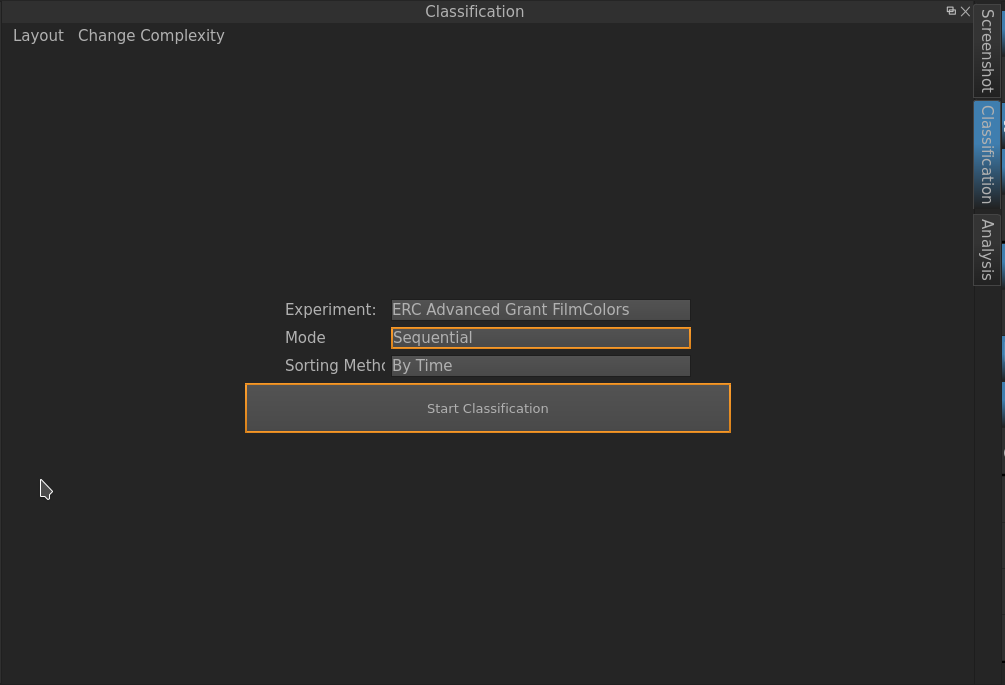
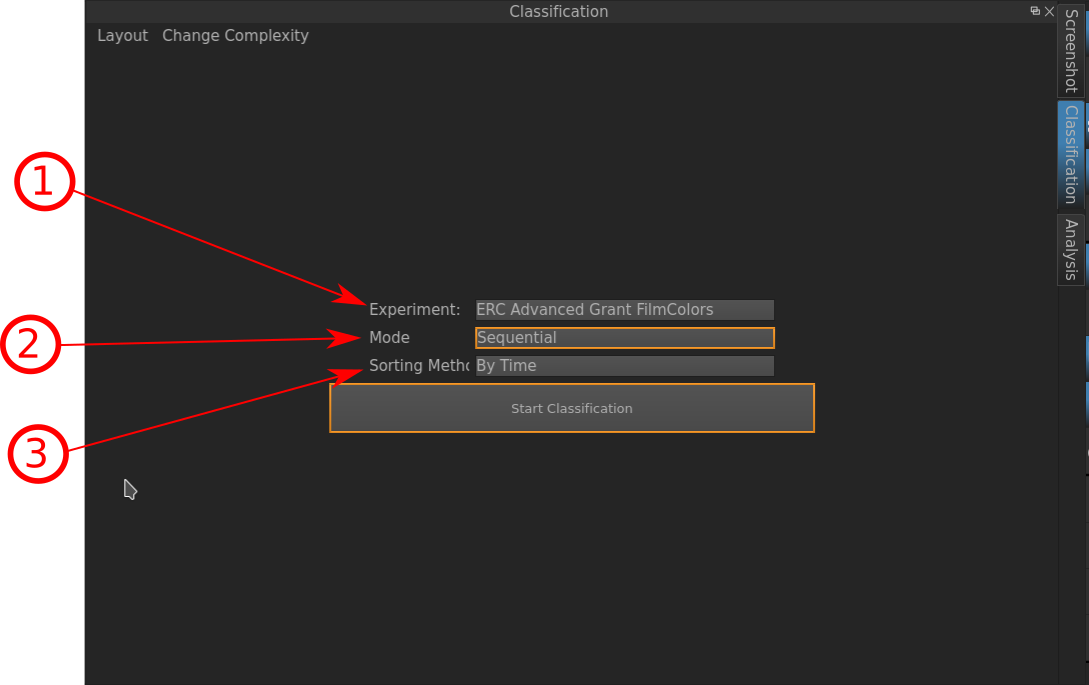
Wiki: continued classification, colorimetry

diff --git a/_docs/source/user_interface/interface_detail/classification/classification.rst b/_docs/source/user_interface/interface_detail/classification/classification.rst
@@ -1,7 +1,12 @@
-.. _classifiaction::
+.. _classification::
 
 Classification
 ==============
+
+The Classification Window is the tool for annotating the Objects with the corresponfing Vocabulary you intend to. In order to be able to perform this task, you need to have two steps already have done:
+
+- The segmentation_ of your movie and
+- The Setting up of an experiment_
 
 .. figure:: classification_start.png
    :scale: 80 %
@@ -10,6 +15,11 @@ Classification
 
    The Mask before starting a Classification.
 
+Indicated Information:
+
+- **1**: **Experiment**: Choose the experiment (i.e. the Vocabulary and Objects) you want to use to classify your movie. If you have not set up an Experiment yet you can define one HERE, or you can select the *ERC Advanced Grant FilmColors* which already has Objects and a corresponding Experiment pre-defined.
+- **2**: **Mode**: Select the Mode in which you want to carry out your Classification; which means, either you select the Segments manually (you click on them in the **Timeline**), or you classify them sequentally (as seen in the image below).
+- **3**: **Sorting Method**: TO DO
 
 .. figure:: classification_in_prog.png
    :scale: 50 %

diff --git a/_docs/source/user_interface/interface_detail/colorimetry/colorimetry.rst b/_docs/source/user_interface/interface_detail/colorimetry/colorimetry.rst
@@ -1,8 +1,9 @@
-.. _colrimetry:
+.. _colorimetry:
 
 Colorimetry
 ===========
 
+If you ran the **Colorimetry** (which means that the color features for each frame are being computed), you can inspect the color features of the current frame you are at in the **timeline**.
 
 .. figure:: colorimetry.png
    :scale: 60%
@@ -10,6 +11,29 @@ Colorimetry
    :alt: map to buried treasure
    
    The two visualizations of the Colorimetry along the corresponding frame.
+
+
+.. image:: colorimetry_palette_1.png
+   :scale: 50%
+   :align: left
+   :alt: map to buried treasure
+   
+
+.. image:: colorimetry_palette.png
+   :scale: 50%
+   :align: right
+   :alt: map to buried treasure
+   
+Indicated Information:
+
+- **1**: **Mode**:
+ - *Full Tree*:
+ - *Layer*:
+- **2**: **Sorting**:
+ - *Cluster*:
+ - *Frequency*:
+ - *Hilbert*:
+- **3**: **Layer Depth**:
 
 * :ref:`genindex`
 * :ref:`modindex`

diff --git a/_docs/source/user_interface/OverviewInterface.rst b/_docs/source/user_interface/OverviewInterface.rst
@@ -5,7 +5,7 @@ Overview Interface
 If you open a project in VIAN, your interface will look something like the following picture (the picture shows a project already in process, so there are Screenshots, layers in the Timeline etc. If you create a new project, you inerface will look much emptier, but the windows are the same):
 
 .. figure:: overview_interface.png
-   :scale: 65%
+   :scale: 50%
    :align: center
    :alt: map to buried treasure
 

diff --git a/_docs/source/user_interface/interface_detail/vocabulary/vocabulary.rst b/_docs/source/user_interface/interface_detail/vocabulary/vocabulary.rst
@@ -29,5 +29,5 @@ Indicated Information:
 - **9**: In both windows, *Library* and *Project*, the Category *Movement* is selected. Since the movie that is gonna be annoted has rather slow camera movement, the terms *fast* and *hectic* were removed since they are not gonna be used.
 
 * :ref:`genindex`
-* :ref:`midindex`
+* :ref:`modindex`
 * :ref:`search`
